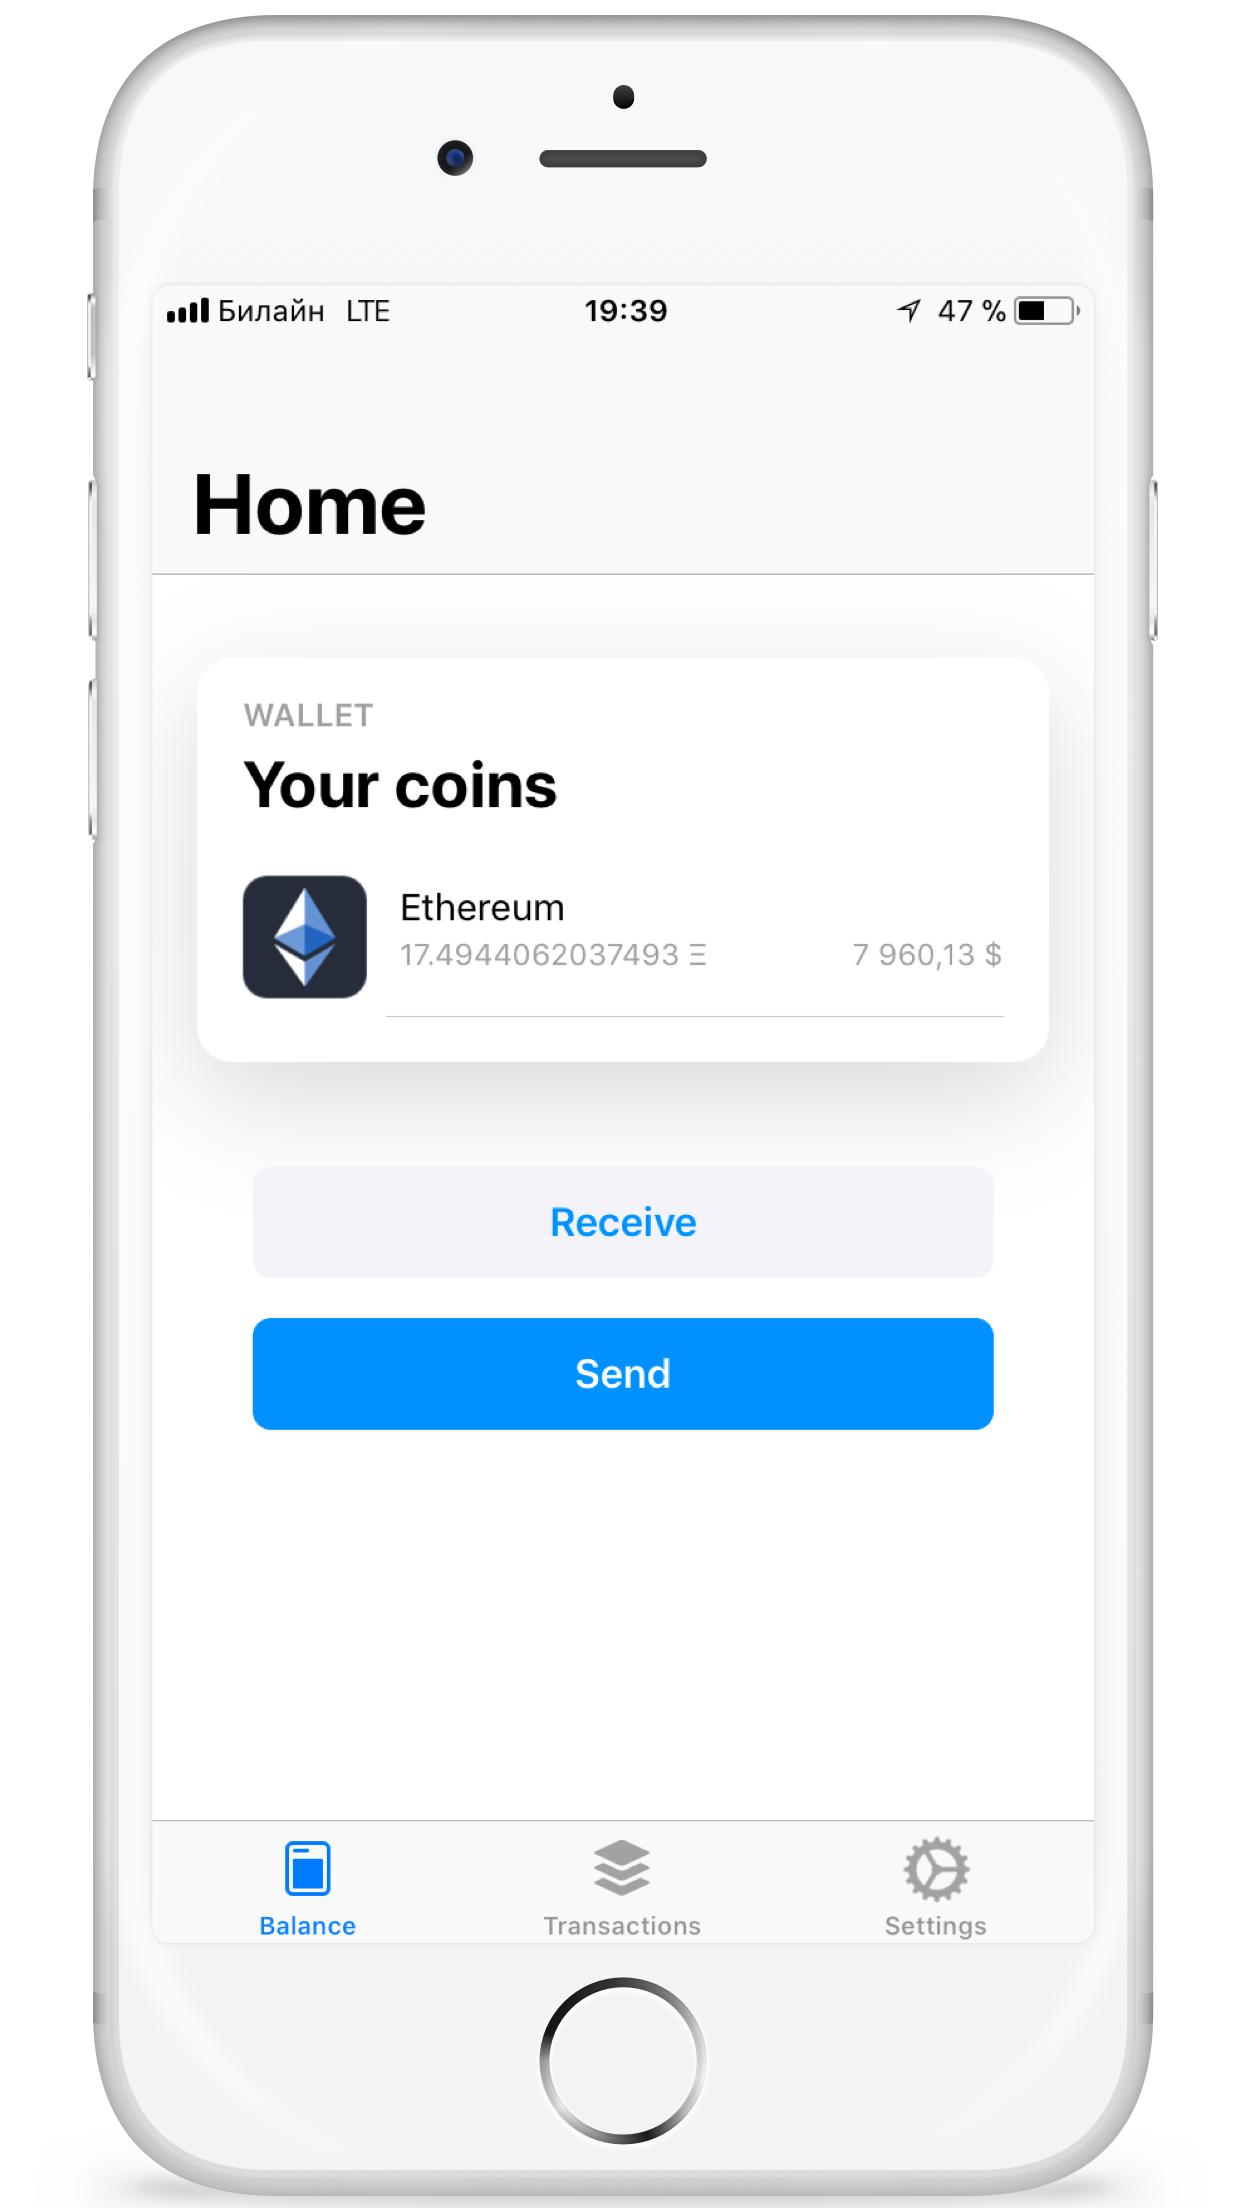
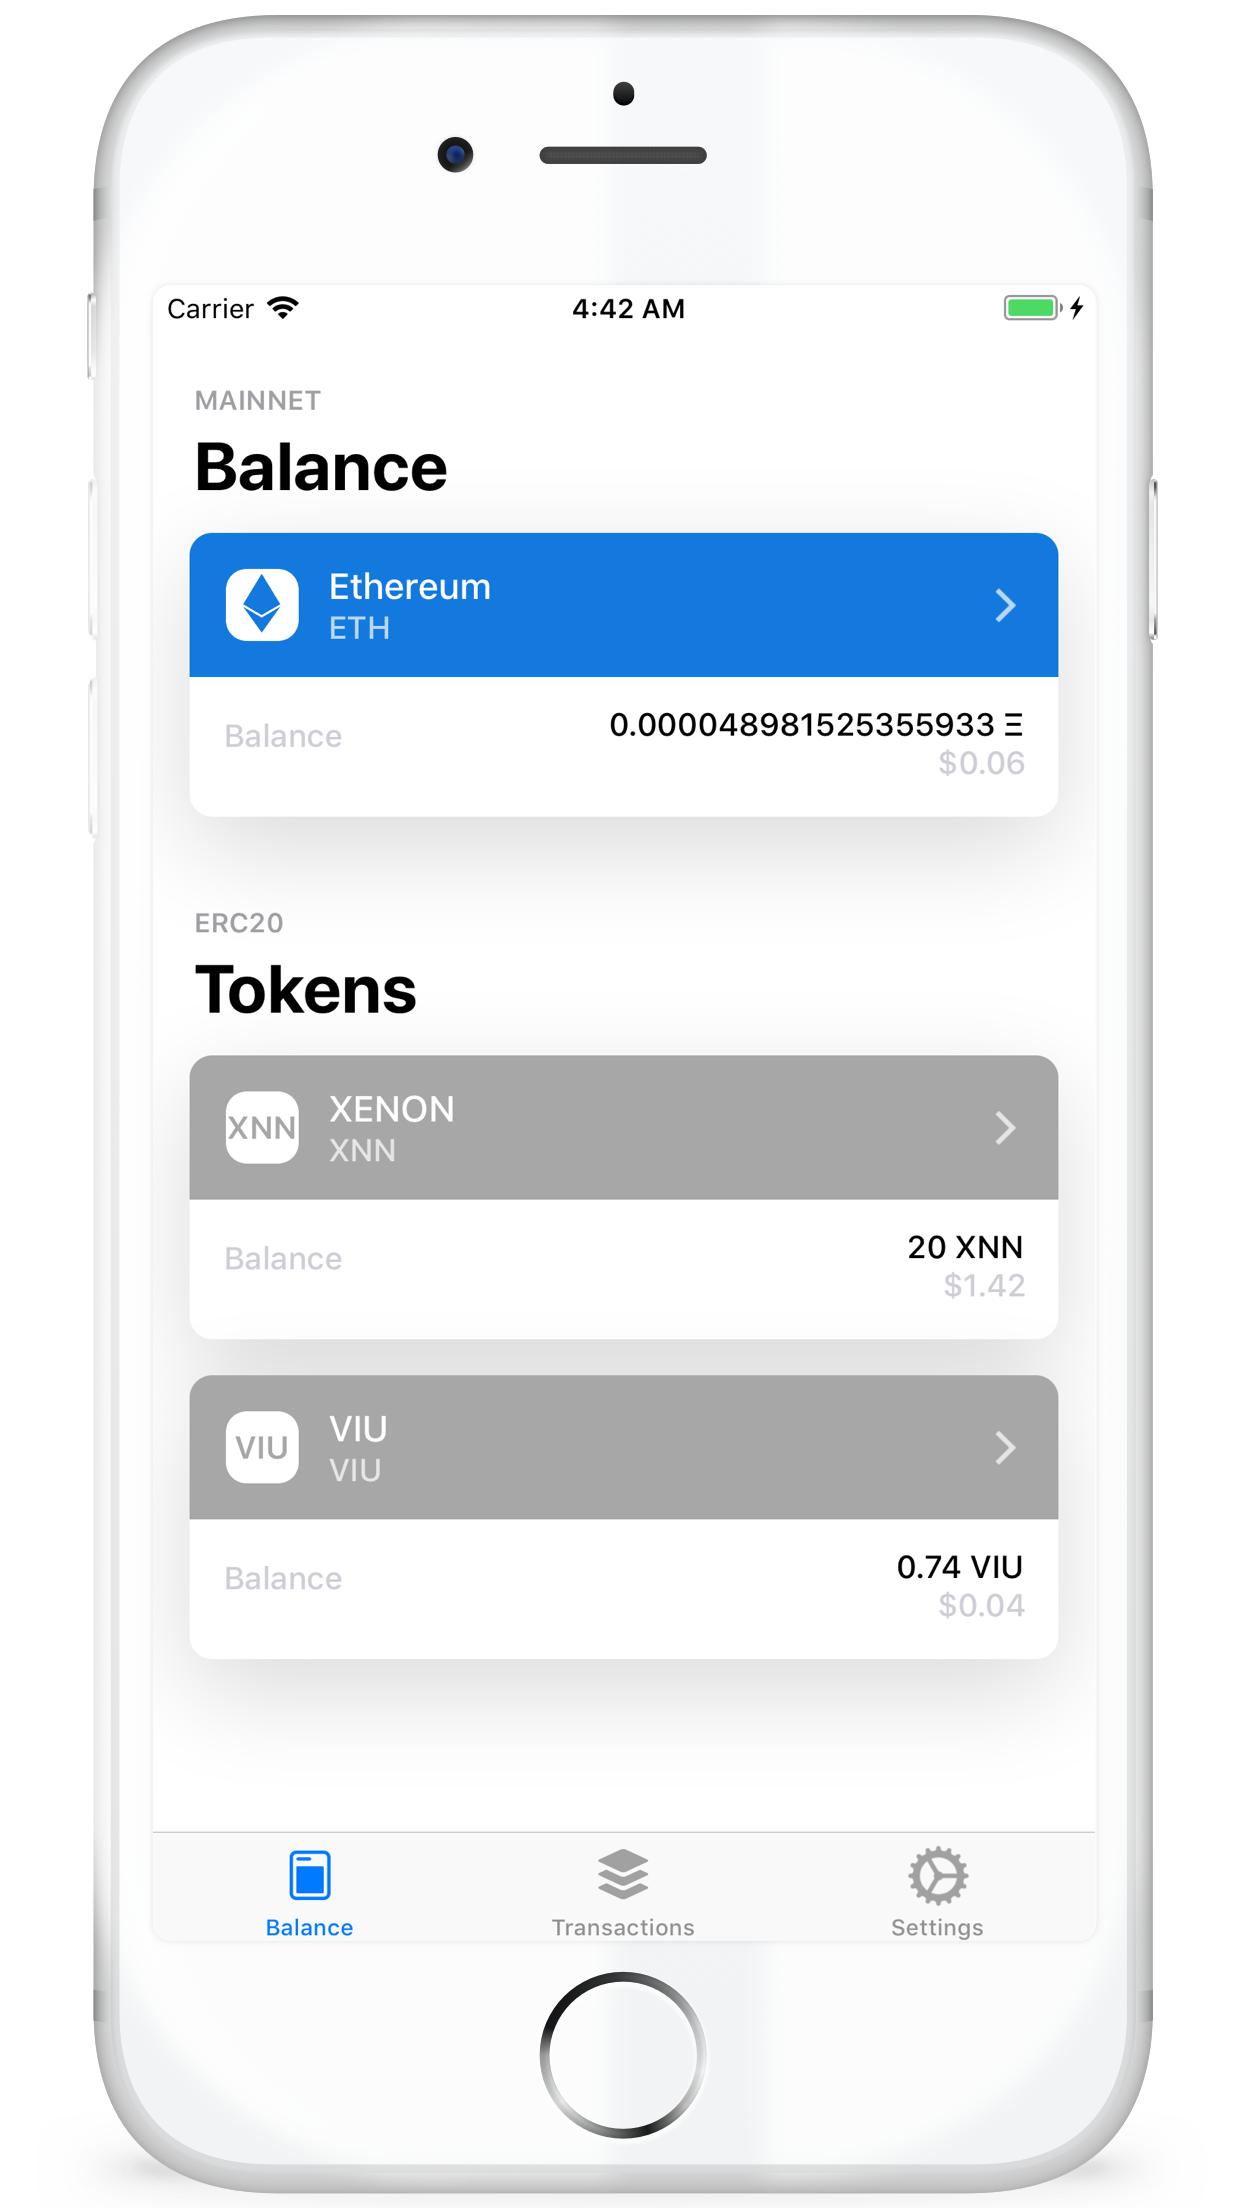
update readme

diff --git a/README.md b/README.md
@@ -1,4 +1,4 @@
-# ethereum-wallet-ios
+# Conicoin
 <p><b>Native Ethereum Wallet - iOS</b></p>
 
 Core: go-ethereum (iGeth)
@@ -20,7 +20,7 @@ pod install; pod update
 
 ### Features
 
-<b>ethereum-wallet</b> is 100% native ethereum wallet, created with iOS version of Geth client. Currently supported Rinkeby, Ropsten and Mainnet(not fully tested).
+<b>Conicoin</b> is 100% native ethereum wallet, created with iOS version of Geth client. Currently supported Rinkeby, Ropsten and Mainnet(not fully tested).
 
 * keys <b>never</b> leave the device and stored in keychain in password protected UTC format
 * not a single line of Java script (no web3.js)
@@ -35,6 +35,7 @@ pod install; pod update
 * ✅ Transactions list
 * ✅ Receiving funds
 * ✅ Sending funds
+* ✅ ERC20 tokens
 * Transaction details
 * Landing web page
 
